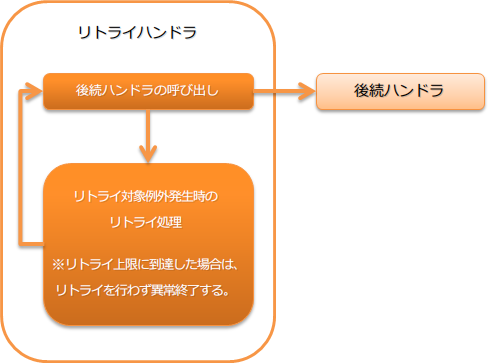
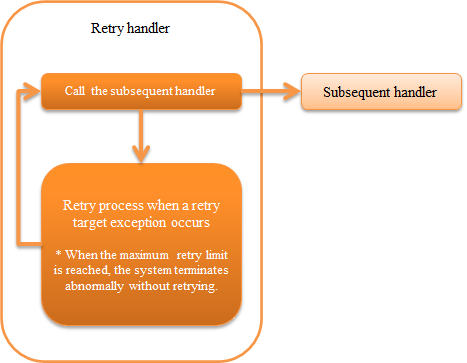
リトライハンドラのページを英語化

diff --git a/en/application_framework/application_framework/handlers/standalone/retry_handler.rst b/en/application_framework/application_framework/handlers/standalone/retry_handler.rst
@@ -1,34 +1,33 @@
 .. _retry_handler:
 
-リトライハンドラ
+Retry Handler
 ========================================
-.. contents:: 目次
+.. contents:: Table of contents
   :depth: 3
   :local:
 
-本ハンドラはデータベースアクセス時のデッドロックのように、単純リトライによってリカバリ可能なエラーについて、自動的なリトライ制御を行う。
+This handler controls automatic retries of errors than can be recovered with a simple retry such as deadlocks when accessing the database.
 
-本ハンドラでは、 :java:extdoc:`Retryable <nablarch.fw.handler.retry.Retryable>` を実装した実行時例外をリトライ可能なエラーとみなし、後続ハンドラの再実行を行う。
-なお、リトライ上限の判定に関する処理は、 :java:extdoc:`RetryContext <nablarch.fw.handler.RetryHandler.RetryContext>` の実装クラスとして外部化されている。デフォルトでは以下の実装が提供されている。
+In this handler, the runtime exception implemented by :java:extdoc:`Retryable <nablarch.fw.handler.retry.Retryable>` is considered as a retriable error and subsequent handler is re-executed. The process related to the determination of the retry upper limit is externalized as an implementation class of :java:extdoc:`RetryContext <nablarch.fw.handler.RetryHandler.RetryContext>` . Implementations provided by default are given below.
 
-* :java:extdoc:`リトライ回数による上限設定 <nablarch.fw.handler.retry.CountingRetryContext>`
-* :java:extdoc:`経過時間による上限設定 <nablarch.fw.handler.retry.TimeRetryContext>`
+* :java:extdoc:`Java Upper limit configuration of retry count <nablarch.fw.handler.retry.CountingRetryContext>`
+* :java:extdoc:`Java Upper limit configuration of elapsed time <nablarch.fw.handler.retry.TimeRetryContext>`
 
-本ハンドラでは、以下の処理を行う。
+This handler performs the following process.
 
-* リトライ対象例外発生時のリトライ処理
-* リトライ上限到達時の例外送出処理
+* Retry process when a retry target exception occurs
+* •	Process that throws an exception when the upper limit of retries is reached.
 
-処理の流れは以下のとおり。
+The process flow is as follows.
 
 .. image:: ../images/RetryHandler/flow.png
   :scale: 80
   
-ハンドラクラス名
+Handler class name
 --------------------------------------------------
 * :java:extdoc:`nablarch.fw.handler.RetryHandler`
 
-モジュール一覧
+Module list
 --------------------------------------------------
 .. code-block:: xml
 
@@ -37,43 +36,39 @@
     <artifactId>nablarch-fw-standalone</artifactId>
   </dependency>
 
-制約
+Constraints
 ------------------------------
-リトライ対象例外を送出するハンドラは、本ハンドラより後ろに設定すること。
-本ハンドラより手前でリトライ対象の例外を送出しても、単に例外として処理されるので注意すること。
+The handler that throws the retry exception should be configured after this handler. Note that even if a retry exception is thrown before this handler, it will be processed only as an exception.
 
-リトライの上限設定を行う
+Configure the upper limit of retry
 --------------------------------------------------
-本ハンドラでは、リトライを無限に繰り返すのではなく一定の回数リトライを繰り返しても処理が成功しなかった場合は、
-リトライに失敗したとみなし処理を異常終了させる。
-このため、本ハンドラを使用する際には必ずリトライ上限の設定が必要となる。
+In this handler, the retry is not repeated indefinitely and if the process is not successful after a certain number of retries, it is regarded as a retry failure and the process is aborted. The upper limit has to be configured for the retry when using this handler.
 
-上限設定は、上述したとおり以下の2種類から選択できる。プロジェクト要件とマッチしない場合には、プロジェクト側で実装を追加し対応すること。
+The configuration for the upper limit can be selected from the following two types as mentioned above. Add an implementation in the project if both configurations do not match the project requirements.
 
-* :java:extdoc:`リトライ回数による上限設定 <nablarch.fw.handler.retry.CountingRetryContext>`
-* :java:extdoc:`経過時間による上限設定 <nablarch.fw.handler.retry.TimeRetryContext>`
+* :java:extdoc:`Java Upper limit configuration of retry count <nablarch.fw.handler.retry.CountingRetryContext>`
+* :java:extdoc:`Java Upper configuration of elapsed time <nablarch.fw.handler.retry.TimeRetryContext>`
 
-以下にリトライ回数による上限設定の例を示す。
+An example of setting the upper limit based on the number of retries is given below.
 
 .. code-block:: xml
 
   <component name="retryHandler" class="nablarch.fw.handler.RetryHandler">
     <property name="retryContextFactory">
       <component class="nablarch.fw.handler.retry.CountingRetryContextFactory">
-        <property name="retryCount" value="3" />          <!-- 最大3回リトライを行う -->
-        <property name="retryIntervals" value="5000" />   <!-- リトライを実行するまで5秒待機する -->
+        <property name="retryCount" value="3" />          <!-- Retry up to 3 times -->
+        <property name="retryIntervals" value="5000" />   <!-- Wait for 5 seconds before retrying -->
       </component>
     </property>
   </component>
 
 .. tip::
 
-  上限に設定する値は、想定する最大の復旧時間プラスアルファの値を設定すること。
+  For the value to be configured as the upper limit, configure the maximum recovery time plus alpha value.
 
-  例えば、アクティブ/スタンバイ構成のデータベースの切り替えに最大5分かかるのであれば、
-  5分プラスアルファの時間(例えば7分等)を上限値として設定する。
+  For example, if a maximum of 5 minutes is required to switch databases in an active/standby configuration, configure 5 minutes plus alpha time (for example 7 minutes) as the upper limit.
 
-  なお、複数の例外に対するリトライを実現する場合には、最も復旧まで時間をようするものをベースに上限値を設定すること。
+  To realize retries for multiple exceptions, configure the upper limit based on the exception that requires maximum recovery time.
 
 
 
